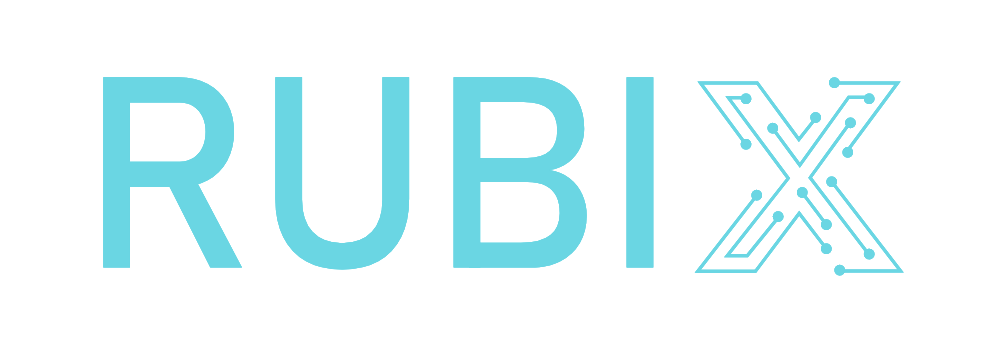
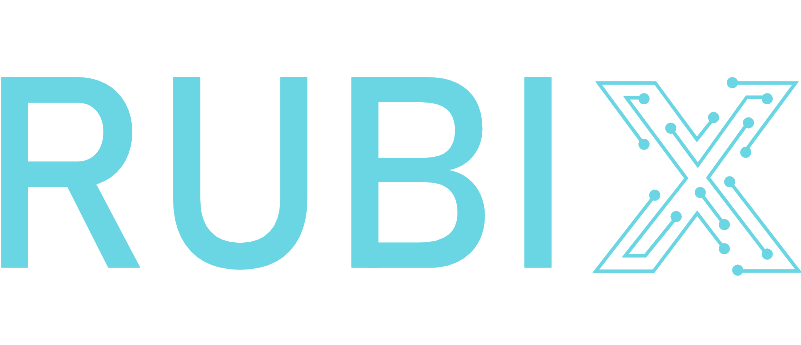
Completed Rubix page

Changed region(s): [[0.0, 0.2029, 0.4994, 0.7826], [0.5306, 0.2029, 1.0, 0.8116], [0.5306, 0.2029, 0.5618, 0.2319]]

diff --git a/templates/rubix.html b/templates/rubix.html
@@ -11,12 +11,14 @@
     {% include 'menu.html'%}
     {% include 'back_to_top.html'%}
     <div id="page_container">
-    		<img src="../static/images/rubix.png" align="middle"/>
-
-    	<h1 class="headi">ATTENTION GEEKS!</h1>
+		<div class="logoCont">
+    		<img src="../static/images/rubix.png"/>
+		</div>
+    	
 
 
    <div class="content">
+		<h1 class="headi">ATTENTION GEEKS!</h1>
    		<p>For the first time ever,  
 		   saddle up, build some momentum and leap forth into the most supreme world of technology!<br>
 
@@ -26,11 +28,13 @@
 		   <strong>Get ready to bring out the geek in you.</strong>
 		</p>
 	</div>
-
+<br>
+<br>
+<br>
 			<table style="width:100%" cellpadding="5000">
   				<tr>
-    				<th style="text-align:center">EVENT</th>
-    				<th style="text-align:center">DATE</th> 
+    				<th style="text-align:center"><h2>EVENT</h2></th>
+    				<th style="text-align:center"><h2>DATE</h2></th> 
   				</tr>
   				<tr>
     				<td style="text-align:center">Inauguration</td>
@@ -54,15 +58,19 @@
   				</tr>
   				<tr>
     				<td style="text-align:center">Android Workshop</td>
-    				<td style="text-align:center">14/03/2019 & 15/03/2019</td> 
+    				<td style="text-align:center">14/03/2019 and 15/03/2019</td> 
   				</tr>
 			</table>
-
+			<br>
 	<div class="content">
    		<p>More details will be out soon!<strong> STAY TUNED!!</strong><br>
    			<strong>#Rubix #TheGeekWeek</strong></p>
 		</p>
 	</div>
+<br>
+<br>
+<br>
+
 
     </div>
 

diff --git a/static/css/style.css b/static/css/style.css
@@ -80,7 +80,16 @@ body{
 
     text-align: center;
 }
-
+@media screen and (max-width: 600px){
+    #page_container{
+        width: 100vw;
+        margin: 0;
+    }
+    #primaryNav{
+        width: 100%;
+        height: 30px;
+    }
+}
 .menu {
     
 	height: 100vh;
@@ -225,18 +234,27 @@ body{
     
     #primaryNav{
         padding: 0;
+        height: 10vh;
     }
     .navbar-brand{
         padding: 20px;
     }
     #navbarBasicExample{
+        display: none;
+        background: black;
+        height: 90vh;
+        top: 10vh;
+        padding-top: 100px;
         padding: 20px;
-        height: 100vh;
         width: 60vw;
         float: right;
-        position: absolute;
+        position: fixed;
         right: 0px;
         z-index: 1000;
+    }
+    
+    .is-active{
+        display: block !important;
     }
 }
 

diff --git a/static/css/rubix-css.css b/static/css/rubix-css.css
@@ -1,21 +1,26 @@
-.img{
-	width: 100px;
-	height: 100px;
-	align-items: center;
-	position: middle;
+.logoCont{
+	text-align: center;
+	padding: 50px 0;
+	margin: 50px 0;
+}
+.logoCont img{
+	width: 800px;
 }
 
-.headi{
-	text-align: center;
-	color: #B10C2D;
-}
 
 .content{
 	text-align: left;
-	background-color: white;
-	color: black;
-	margin: 20%;
-	padding: 20px;
+	background-color: #1d1d1d;
+	color: white;
+	margin:0 20% ;
+	padding: 50px;
+}
+
+.content h1{
+	text-align: center;
+	background: #28282a;
+	padding: 30px 70px;
+	color: #6AD6E3;
 }
 
 .tab{
@@ -34,4 +39,7 @@ table {
   border-spacing: 5px;
   width: 75%;
   height: 100px;
+}
+table h2{
+	padding-top: 30px;
 }
